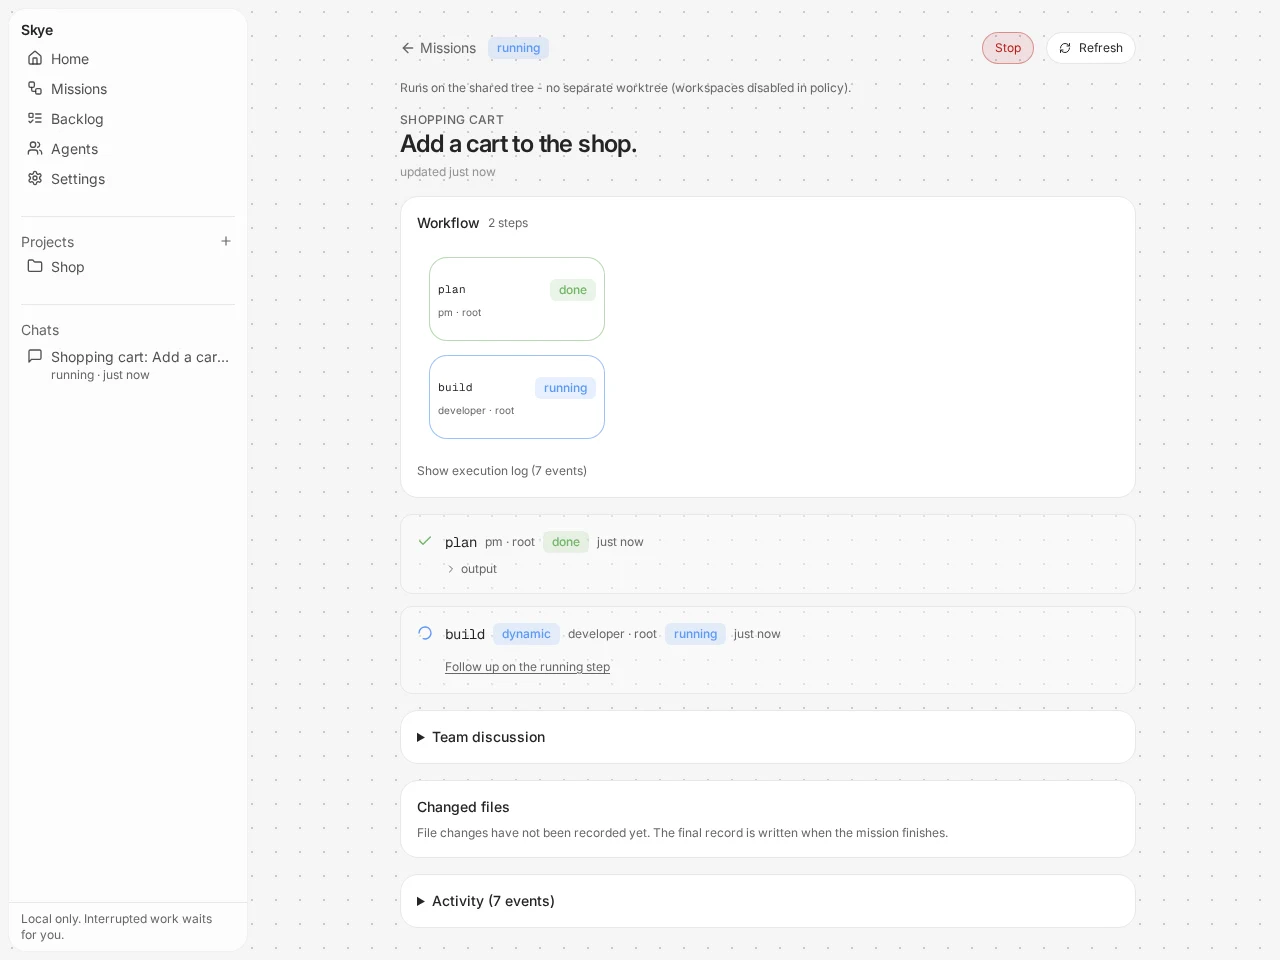
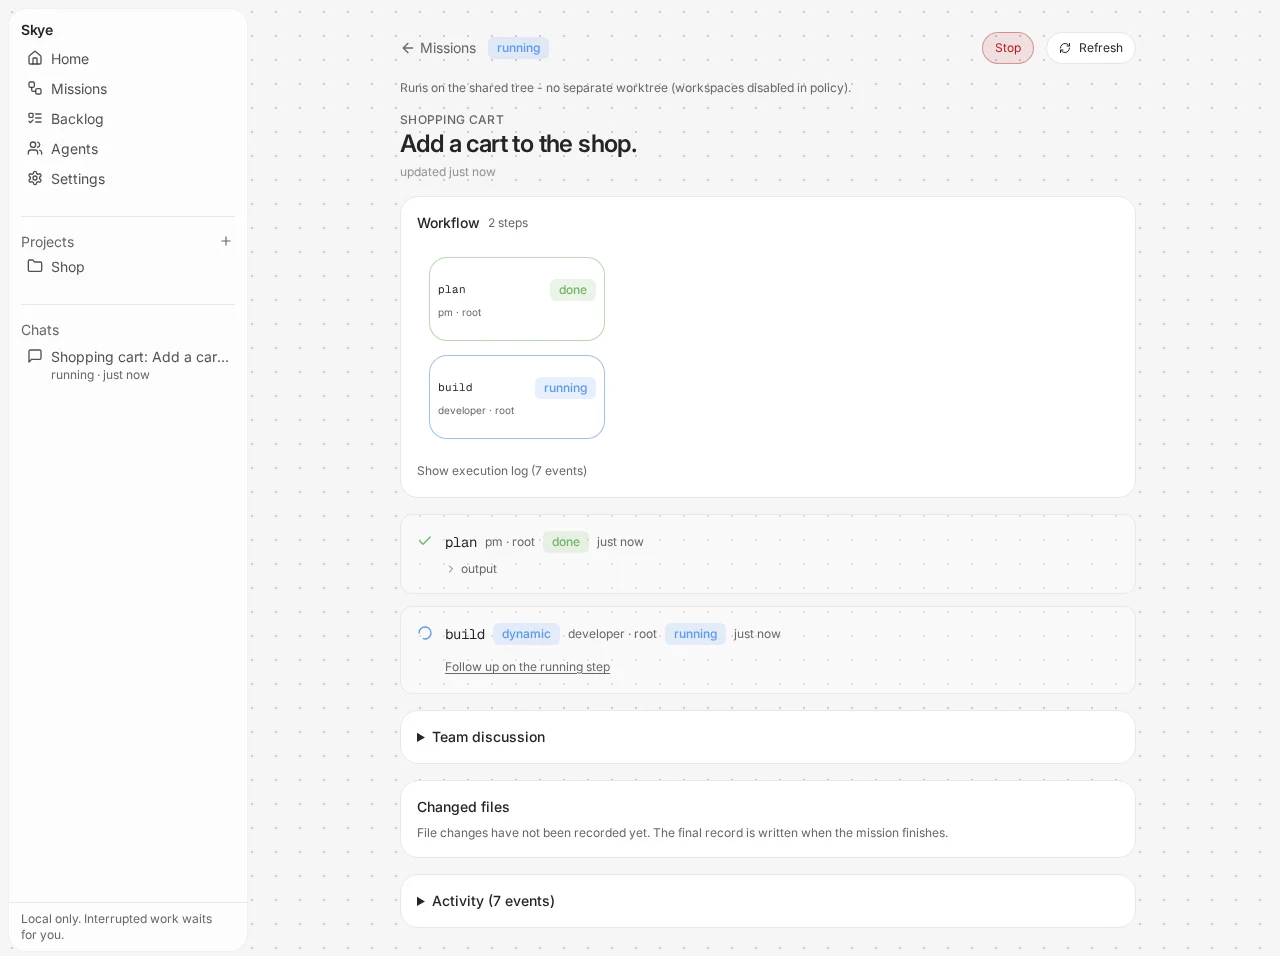
docs: crop blank space from approval and agents screens, caption the hero as a scripted demo mission

diff --git a/README.md b/README.md
@@ -9,7 +9,11 @@ resell tokens or download an agent for you.
 [Quick start](#quick-start) | [How it works](#how-it-works) | [Workers](#workers) | [Screens](#screens) | [Honest status](#honest-status) | [License](#license)
 
 <p align="center">
-  <img src="docs/assets/readme/mission-done.webp" alt="A finished Skye mission: the workflow graph shows the plan and build steps done, and the changed-files list includes a poster preview the designer worker produced" width="100%">
+  <img src="docs/assets/readme/mission-done.webp" alt="A finished Skye mission for a demo shop: the workflow graph shows the plan and build steps done, and the changed-files list previews a cart poster SVG produced in the run" width="100%">
+</p>
+
+<p align="center">
+  <sub><em>A demo mission in the local UI - scripted, no model calls.</em></sub>
 </p>
 
 ---
